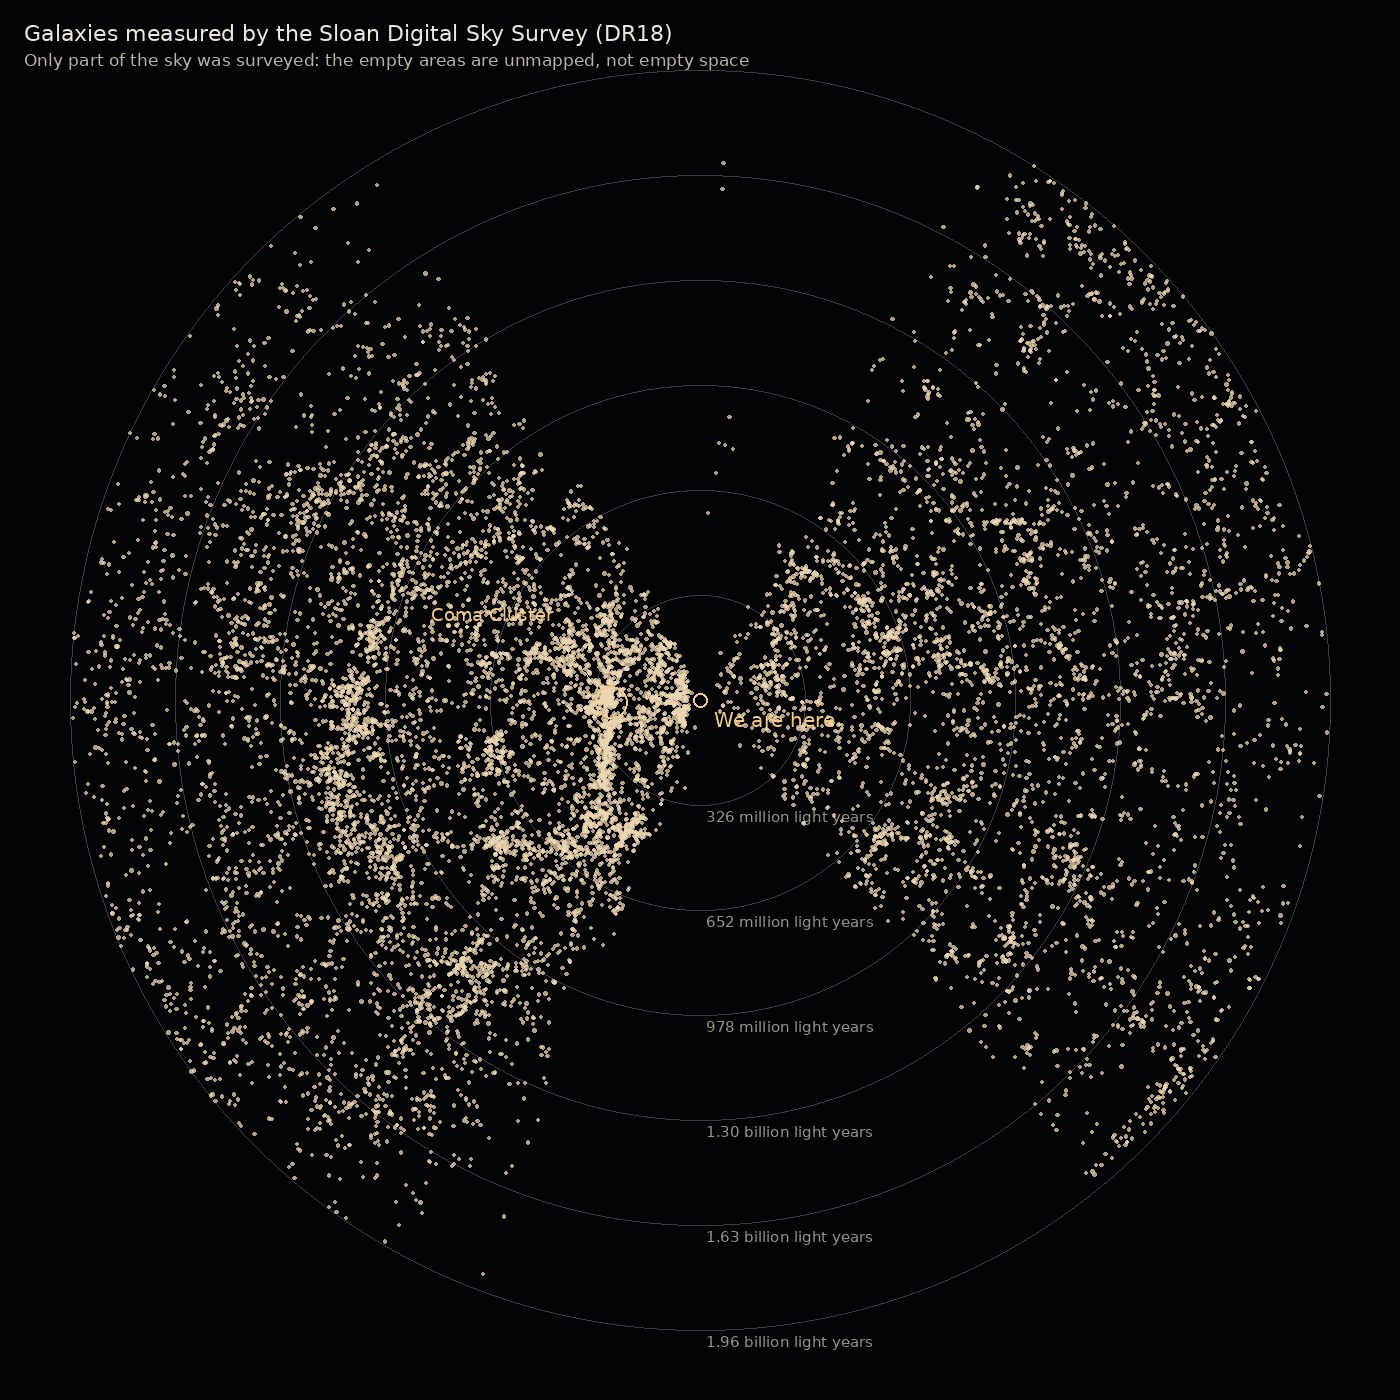
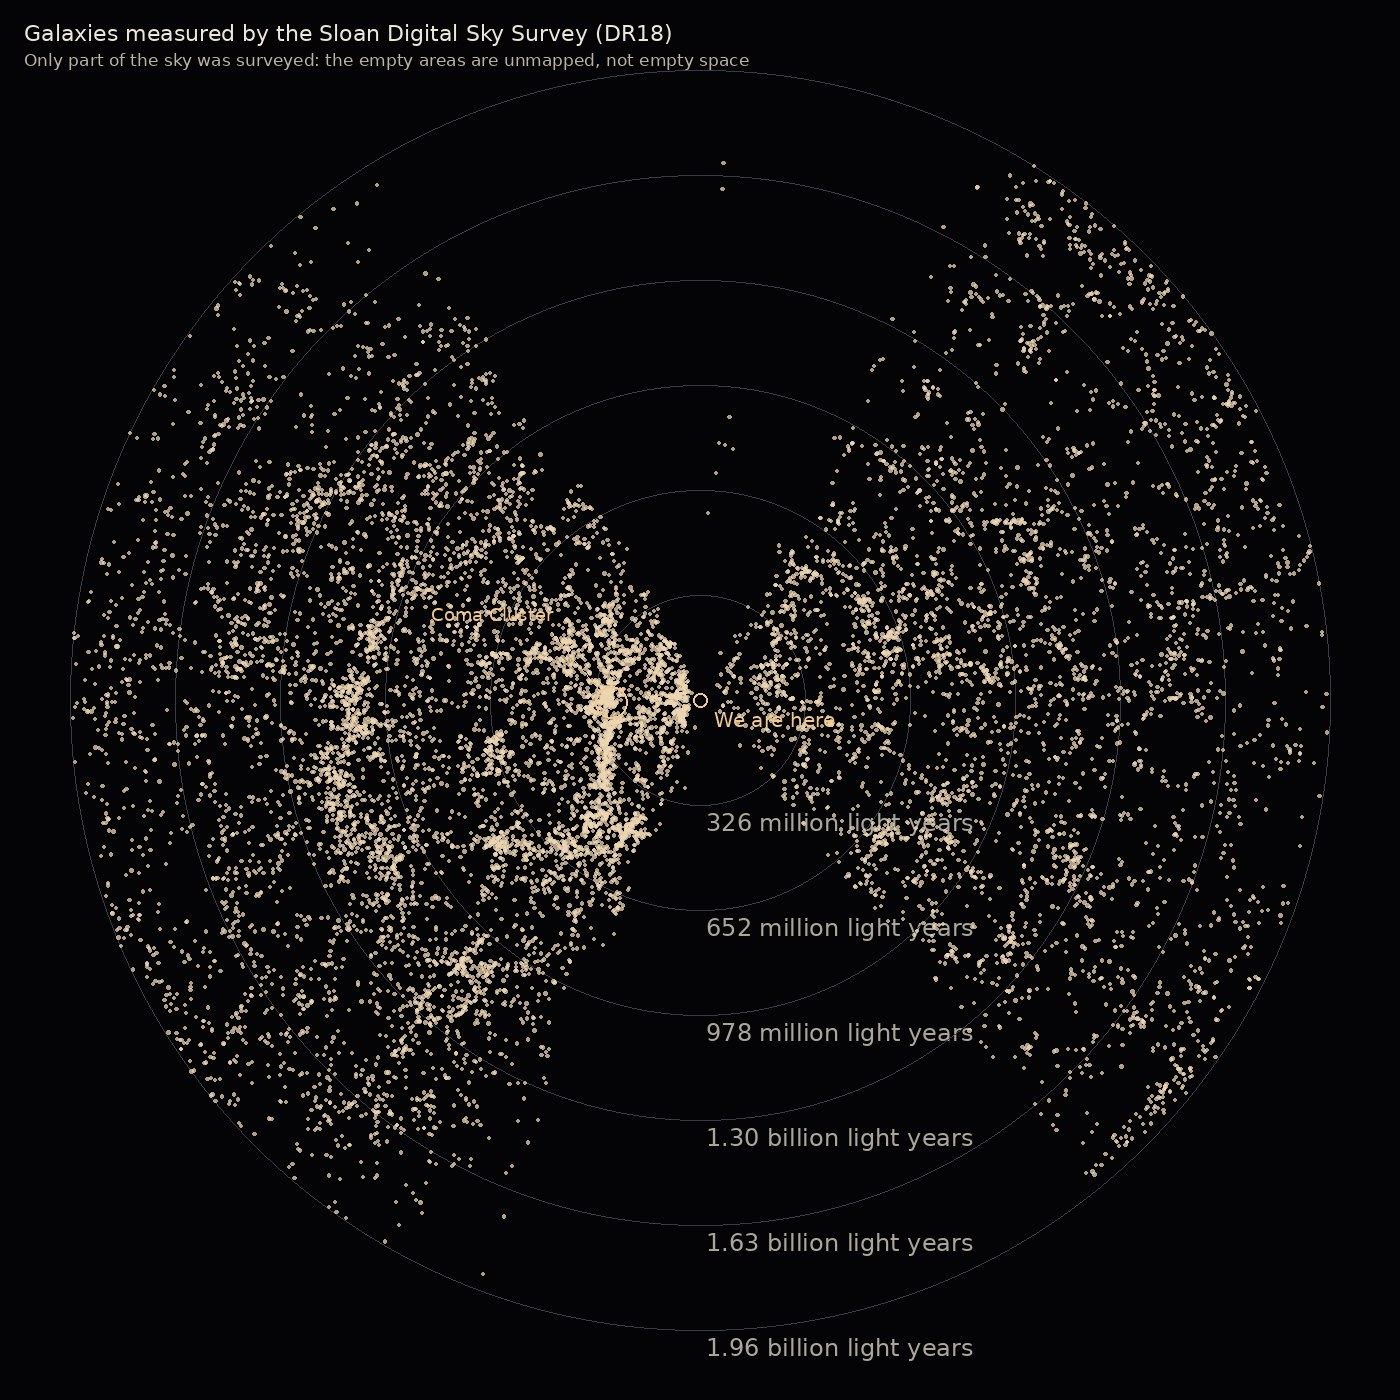
Round D fixes from QA: stale 2MASS credit on the sources page, 330 million wording, shorter 3D note, bigger map labels
Claude-Session: https://claude.ai/code/session_01Sn3b4dU36ZyfGHZvmcKo6v

diff --git a/src/lib/v2/engine/world.ts b/src/lib/v2/engine/world.ts
@@ -365,7 +365,7 @@ export async function createWorld(o: { canvas: HTMLCanvasElement; onReadout?: (r
     'oort-cloud': 'The Oort cloud is drawn from a model; nobody has seen it, only comets that come from it',
     'milky-way': 'Our galaxy’s shape is a model built from measurements; we cannot see it from outside',
     'local-group': 'Andromeda, Triangulum and the Magellanic Clouds are models, placed and tilted as measured',
-    'cosmic-web': 'Real galaxies from the Sloan Digital Sky Survey. Blank sky was not surveyed',
+    'cosmic-web': 'Real SDSS galaxies. Blank sky was not surveyed',
     cmb: 'You are outside the sphere of all we can see, 46 billion light years in radius. Nothing is really this far away, and the tiny differences in its light are shown far stronger than they are',
   };
   function placeAt(fromSun: number, nearId: string): { id: string; band: Context['band'] } | null {

diff --git a/scripts/data/draw-cosmic-web-map.py b/scripts/data/draw-cosmic-web-map.py
@@ -12,7 +12,7 @@ fnt = lambda s: ImageFont.truetype('/usr/share/fonts/truetype/dejavu/DejaVuSans.
 for r in (100, 200, 300, 400, 500, 600):
     dr.ellipse([c - r * k, c - r * k, c + r * k, c + r * k], outline=(60, 60, 70, 255), width=1)
     ly = r * 3.2616
-    dr.text((c + 6, c + r * k + 3), f'{ly / 1000:.2f} billion light years' if ly >= 1000 else f'{round(ly)} million light years', font=fnt(15), fill=(150, 146, 138, 255))
+    dr.text((c + 6, c + r * k + 3), f'{ly / 1000:.2f} billion light years' if ly >= 1000 else f'{round(ly)} million light years', font=fnt(24), fill=(170, 166, 156, 255))
 n = 0
 for i in range(len(raw) // 16):
     x, y, z, _ = struct.unpack_from('<4f', raw, i * 16)

diff --git a/src/content/lessons/the-cosmic-web/first-look.md b/src/content/lessons/the-cosmic-web/first-look.md
@@ -21,7 +21,7 @@ Step back further and a pattern appears. The clusters are joined by long threads
 
 <figure class="photo">
   <img src="/img/learn/cosmic-web-map-sdss.jpg" alt="A map of thousands of pale dots gathered into knots and threads with dark gaps between, marked We are here at the centre, with the Coma Cluster ringed. Large dark wedges are parts of the sky that were not surveyed" width="1400" height="1400" loading="lazy" />
-  <figcaption><b>A map drawn from measurements.</b> Each dot is a real galaxy: 11,384 of them, in a slice of space 326 million light years thick, reaching about two billion light years from us. The dots thin out far away only because faint galaxies were not recorded. The big dark wedges are not empty space: the survey never looked in those directions. Drawn from the Sloan Digital Sky Survey, Data Release 18, whose public data is in the public domain.</figcaption>
+  <figcaption><b>A map drawn from measurements.</b> Each dot is a real galaxy: 11,384 of them, in a slice of space about 330 million light years thick, reaching about two billion light years from us. The dots thin out far away only because faint galaxies were not recorded. The big dark wedges are not empty space: the survey never looked in those directions. Drawn from the Sloan Digital Sky Survey, Data Release 18, whose public data is in the public domain.</figcaption>
 </figure>
 
 Gravity made it. Wherever there was slightly more matter to begin with, more was pulled in, and the places that started slightly emptier were drained. Over billions of years the difference grew into knots, threads and holes.
